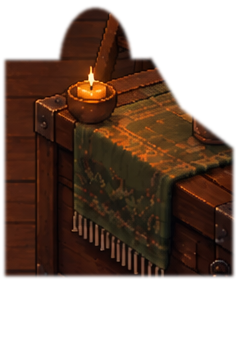
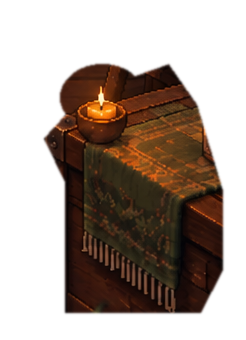
Tighten the candle chest's cutout to just the object itself
The first pass at giving the candle chest its own depth layer traced
too loose a polygon: the left edge was placed at the crop's own
boundary rather than the chest's actual front-left corner, carrying a
wide strip of plain floor and wall paneling along with it. Composited
above a seated companion, that showed up as a disconnected rectangular
slab floating in front of them instead of a clean object silhouette.

Retraced the outline against a magnified reference grid to find the
chest's real edges (front-left corner post, cloth's back and right
edges, fringe line) and rebuilt the cutout tightly around just the
chest, cloth and candle.

diff --git a/game/style.css b/game/style.css
@@ -9,7 +9,7 @@ body{position:fixed;inset:0;overscroll-behavior:none}button,input{font:inherit}b
    which the single flat background can't do on its own. This is a cutout
    of just the chest+cloth+candle, pinned over its own spot in that same
    background, sitting above near companions so they read as behind it. */
-.room-crate{position:absolute;left:1218.75px;top:438.75px;width:221.25px;height:337.5px;z-index:5;pointer-events:none;image-rendering:pixelated}
+.room-crate{position:absolute;left:1209.375px;top:420px;width:230.625px;height:318.75px;z-index:5;pointer-events:none;image-rendering:pixelated}
 .shade{background:linear-gradient(#160f0c99,transparent 22%,transparent 58%,#180f10e8 94%);box-shadow:inset 0 0 160px 40px #180e10b0}#atmosphere{z-index:5}header{position:absolute;inset:30px 48px auto;display:flex;align-items:center;justify-content:space-between;z-index:9}.brand{display:flex;align-items:center;gap:15px;text-shadow:0 3px 0 #2b170e}.brand-mark{font-size:51px;color:#efbc78}.brand h1{font-size:38px;font-weight:normal;letter-spacing:-1px;margin:0;line-height:1}.brand h1 span{font-size:18px;vertical-align:top;padding-left:4px;color:#dfb574}.brand p{font:12px/2 'Courier New',monospace;letter-spacing:2px;margin:4px 0 0;color:#d3b78e;text-shadow:0 1px 3px #140e0dcc}.header-right{display:flex;align-items:center;gap:14px}.session-label{font:10px 'Courier New';letter-spacing:1.1px;color:#c3b5a1;margin-right:12px}.session-label i,.turn-label i{display:inline-block;width:6px;height:6px;background:#b5c99a;margin-right:10px;box-shadow:0 0 9px #aec69a}.icon-button,.guide-button{border:1px solid #806447;background:#271b15dc;box-shadow:0 3px 0 #120d0a;border-radius:5px;height:43px}.icon-button{width:45px;font-size:23px}.guide-button{padding:0 16px;font-size:15px}.guide-button>span{color:#e3bd78;margin-right:8px}kbd{font:10px 'Courier New';border:1px solid #a4865966;border-radius:3px;padding:3px 5px;color:#b59e7c;margin-left:16px}.session-info{position:absolute;top:123px;left:49px;font:12px 'Courier New';letter-spacing:1px;color:#dcc6a6;text-shadow:0 1px 3px #140e0dcc}.session-info .dot{margin:0 12px;color:#8a765f}.companion{position:absolute;z-index:2;width:210px;height:340px;text-align:center}.sprite{height:280px;width:210px;image-rendering:pixelated;filter:drop-shadow(0 8px 2px #110b09b8);animation:breathe 5s ease-in-out infinite;transform-origin:bottom center}.nameplate{position:absolute;top:232px;left:9px;width:192px;padding:10px 10px 8px;background:#241e1bec;border:1px solid #ac825479;box-shadow:0 4px 0 #170f0da3;z-index:6;border-radius:4px}.nameplate strong{font: bold 13px 'Courier New';letter-spacing:2px}.persona{display:block;font:8px 'Courier New';letter-spacing:2px;color:#a99880;margin-top:3px}.bank{margin-top:7px;font:13px 'Courier New';color:#e9c683}.chip-symbol{color:#dfb577;font-size:21px}.bank .chip-symbol{font-size:13px}.status{margin-left:9px;color:#bcba9b;font-size:10px}.dealer-token{position:absolute;top:14px;left:-17px;background:#eee2bd;color:#523d2e;box-shadow:0 2px #705846;width:24px;height:24px;border:2px solid #b5a282;border-radius:50%;font:bold 11px/21px 'Courier New';display:none}.companion.active .nameplate{border-color:#e8c681;box-shadow:0 0 0 3px #e8c68125,0 4px #170f0d}.companion.active .status{color:#ffe3a0}.companion.folded .sprite{filter:brightness(.6) saturate(.5);animation:none}.speech{position:absolute;bottom:337px;left:-12px;width:234px;font:italic 14px Georgia;color:#e7d5b8;text-shadow:0 2px 4px #130e0c;opacity:0;transition:opacity .4s;white-space:nowrap}.speech.show{opacity:1}.opponent-cards{position:absolute;z-index:7;top:321px;left:71px;display:flex;gap:4px;transform:rotate(-4deg)}.companion .card{width:34px;height:45px;border-width:2px;border-radius:4px}.companion .card .corner{font-size:9px;top:2px;left:3px;line-height:.85}.companion .card .center-suit{font-size:16px}.companion .card .corner.bottom{right:3px;bottom:2px;top:auto;left:auto}.companion .card.back span{font-size:16px}.companion.folded .opponent-cards{opacity:.22;transform:rotate(-14deg) translateY(8px)}.companion.away .sprite{filter:brightness(.7) saturate(.55) grayscale(.3)}.companion.away .status{color:#e0a15c}
 .table-shadow{position:absolute;left:230px;top:404px;width:980px;height:360px;background:#160c0dcc;filter:blur(14px);border-radius:50%;z-index:1}.table-outer{position:absolute;left:241px;top:378px;width:958px;height:353px;background:#211412;z-index:3;clip-path:polygon(15% 0,85% 0,85% 3%,92% 3%,92% 8%,96% 8%,96% 17%,99% 17%,99% 30%,100% 30%,100% 68%,99% 68%,99% 81%,96% 81%,96% 90%,92% 90%,92% 96%,85% 96%,85% 100%,15% 100%,15% 96%,8% 96%,8% 90%,4% 90%,4% 81%,1% 81%,1% 68%,0 68%,0 30%,1% 30%,1% 17%,4% 17%,4% 8%,8% 8%,8% 3%,15% 3%)}.table-wood{position:absolute;inset:5px 5px 18px;background:repeating-linear-gradient(0deg,#765031 0 3px,#795433 3px 6px,#69442c 6px 7px);border-radius:160px;box-shadow:inset 0 3px #bf8e58,inset 0 -8px #432b20;padding:19px 21px}.table-felt{position:relative;width:100%;height:100%;border-radius:140px;background:radial-gradient(ellipse at 50% 15%,#446953,#284a3b 75%);border:4px solid #322d21;box-shadow:inset 0 8px 12px #172f2790,inset 0 -2px #78947370;overflow:hidden}.table-felt:after{content:'';position:absolute;inset:0;opacity:.16;pointer-events:none;background:repeating-linear-gradient(0deg,transparent 0 2px,#a8bd8b 2px 3px,transparent 3px 5px),repeating-linear-gradient(90deg,transparent 0 2px,#182d26 2px 3px,transparent 3px 5px)}.felt-stitch{position:absolute;inset:13px 18px;border:1px dashed #abbb8773;border-radius:140px}.felt-flower{position:absolute;top:47%;color:#94ac7e57;font-size:25px}.f1{left:54px}.f2{right:54px}.table-inscription{text-align:center;position:absolute;bottom:30px;width:100%;font:12px 'Courier New';letter-spacing:6px;color:#92ac8170}.table-inscription small{font:italic 13px Georgia;letter-spacing:1px}.street-ribbon{position:absolute;top:456px;left:590px;width:260px;text-align:center;z-index:7;font:10px 'Courier New';letter-spacing:3px;color:#d6d3af}.pot-area{position:absolute;z-index:7;left:577px;top:489px;width:286px;text-align:center;pointer-events:none}.pot-caption{display:none}.pot-area>div{display:inline-block;vertical-align:middle}.pot-area strong{font:25px 'Courier New';color:#fff1c6}.pot-area .chip-symbol{font-size:22px}.chip-pile{margin-left:15px;position:relative;height:26px;width:55px}.chip{position:absolute;width:23px;height:8px;border-radius:50%;background:#cb9470;border:2px dashed #f2d6a4;box-shadow:0 2px 0 #6c4435}.chip.green{background:#819a74;box-shadow:0 2px #3d5646}.chip.purple{background:#a395b1;box-shadow:0 2px #564264}.board{display:flex;gap:12px;position:absolute;z-index:7;top:542px;left:497px}.card{position:relative;flex-shrink:0;width:80px;height:111px;background:#f4eacf;border:3px solid #ead8ad;border-radius:7px;box-shadow:0 4px 0 #b6a47e,0 8px 9px #16241e88;color:#2a4440;user-select:none;transition:transform .2s,box-shadow .2s}.card .corner{position:absolute;top:5px;left:7px;font:bold 20px Georgia;line-height:.95;text-align:center}.card .corner span{display:block;font-size:.8em;margin-top:2px}.card .corner.bottom{inset:auto 6px 5px auto;transform:rotate(180deg)}.card .center-suit{position:absolute;inset:0;display:flex;align-items:center;justify-content:center;font-size:43px}.card.red{color:#b25345}.card.best{box-shadow:0 4px #bd9149,0 0 0 3px #eccb80,0 0 20px #f6d58738}.card.back{background:repeating-linear-gradient(45deg,#687973 0 3px,#72857c 3px 5px);border:3px solid #e9d5ac;display:flex;align-items:center;justify-content:center}.card.back:before{content:'';position:absolute;inset:5px;border:1px solid #d5cb9e}.card.back span{color:#eddfb5;font-size:33px;text-shadow:2px 2px #374f48}.card.empty{background:#203c3160;border:1px dashed #8ba07861;box-shadow:none;color:#90a27e70;display:flex;align-items:center;justify-content:center;font-size:22px}.card.enter{animation:cardIn .55s cubic-bezier(.2,.8,.25,1.15) both}.deck{position:absolute;left:348px;top:546px;z-index:7;transform:rotate(-12deg)}.deck .card{width:62px;height:87px;box-shadow:2px 2px #baac8b,4px 4px #f0e0b9,6px 6px #9e8d6e,8px 8px #ecdeba,12px 12px 12px #10241d99}.teacup{position:absolute;left:1032px;top:579px;z-index:7}.tea{font-size:42px;filter:sepia(.5);transform:rotate(10deg)}.steam{position:absolute;top:-14px;left:13px;color:#e3d8c1aa;font-size:24px;animation:steam 3s infinite}.steam.s2{left:29px;animation-delay:-1.4s}.table-message{position:absolute;z-index:7;top:673px;left:370px;width:700px;text-align:center;color:#e5d3b0;font:italic 15px Georgia;text-shadow:0 2px #2f2318}.human-seat{position:absolute;left:618px;top:716px;z-index:8;width:204px}.hole-cards{display:flex;justify-content:center;gap:9px}.hole-cards .card{width:80px;height:111px;transform:rotate(-7deg) translateY(-22px)}.hole-cards .card:nth-child(2){transform:rotate(7deg) translateY(-22px)}.hole-cards .card:hover{transform:rotate(0) translateY(-34px)}.your-label{text-align:center;position:relative;top:-12px;font:11px 'Courier New';letter-spacing:1.4px;color:#e2caa4;text-shadow:0 1px 2px #140e0d99}.your-label .dealer-token{left:20px;top:-7px}.tiny-star{color:#bc9f72;margin-left:8px}.wallet{position:absolute;left:324px;top:737px;z-index:8}.eyebrow{font:11px 'Courier New';letter-spacing:1.4px;color:#c2ad8d;text-shadow:0 1px 2px #140e0d99}.wallet>div{display:flex;gap:10px;align-items:center;margin:7px 0}.wallet strong{font:29px 'Courier New';color:#f5dfb7}.wallet small{font:12px Georgia;color:#c2af90}.wallet>span:last-child{font:11px Georgia;color:#ab987e}.hand-peek{position:absolute;left:899px;top:731px;z-index:8;text-align:left;padding:12px 18px;border-left:1px solid #b49d6955}.hand-peek:before{content:'';position:absolute;inset:-14px}.hand-peek strong{display:block;font-size:21px;font-weight:normal;margin:5px 0 7px;color:#f3deb9}.hand-peek>span:last-child{font:11px Georgia;color:#bcad92}.hand-peek b{margin-left:8px;color:#deb87c}.action-bar{position:absolute;z-index:9;left:48px;right:48px;bottom:41px;display:flex;align-items:center;justify-content:space-between;border-top:1px solid #8e73583a;padding-top:16px;pointer-events:none}.action-bar>*{pointer-events:auto}.turn-label{padding-left:1px;font:10px 'Courier New';letter-spacing:1.5px}.turn-label small{display:block;font:12px Georgia;letter-spacing:0;color:#a89781;margin-top:7px}.turn-label i{width:5px;height:5px}.action-buttons{display:flex;gap:12px;align-items:center;height:47px}.action-buttons button,.primary{border:1px solid #c9aa78;border-radius:4px;background:#382c23;color:#eee0c6;padding:13px 25px;font:14px Georgia;box-shadow:0 4px #100d0a;min-width:115px}.action-buttons .primary,.primary{background:#ead1a0;color:#3c3326;border:1px solid #fae5b8;box-shadow:0 4px #9f8057}.primary span{margin-left:24px}.action-buttons button small{font:10px 'Courier New';opacity:.6;margin-left:14px}.action-buttons .raise-button{background:#657961;border-color:#9faa7d;box-shadow:0 4px #344b3b}.action-buttons .subtle-button{min-width:80px;color:#c6b69b;border-color:#67523e}.raise-controls{position:absolute;right:0;bottom:63px;padding:17px 20px;background:#292119;border:1px solid #8c7453;box-shadow:0 7px 25px #0008;border-radius:6px;width:370px}.raise-controls label{display:flex;align-items:center;justify-content:space-between;font:12px Georgia}.raise-controls input[type=range]{width:100%;margin:18px 0 13px;accent-color:#e3c390}.raise-controls input[type=number]{width:86px;background:#191610;border:1px solid #9b8058;border-radius:3px;color:#f2e0b7;padding:6px}.raise-presets{display:flex;gap:8px}.raise-presets button{font:10px 'Courier New';min-width:0;padding:7px 9px;box-shadow:none;flex:1}.hidden{display:none!important}footer{position:absolute;z-index:9;left:48px;right:48px;bottom:12px;display:flex;justify-content:space-between;align-items:center;color:#a4917a;font:12px Georgia}footer button{padding:0;font-size:12px;color:#c3ae94}footer>span{font-style:italic;letter-spacing:.3px}.modal-backdrop{position:absolute;inset:0;background:#17130fa1;z-index:20;animation:fadeIn .2s}.journal{position:absolute;z-index:21;right:24px;top:24px;bottom:24px;width:488px;background:#eee0bf;color:#473e30;border:4px solid #b69a70;border-radius:6px;box-shadow:-16px 20px 70px #070808aa;display:flex;flex-direction:column;animation:journalIn .35s cubic-bezier(.2,.8,.2,1)}.journal-head{display:flex;justify-content:space-between;padding:25px 23px 19px;align-items:center}.journal .eyebrow{color:#8d7656;font-size:8px;letter-spacing:1.5px}.journal h2{font-size:28px;font-weight:normal;margin:7px 0 0}.close{width:30px;height:30px;font:28px/30px Georgia;color:inherit;border:1px solid #9e85575c;border-radius:3px}.journal-tabs{display:flex;padding:0 23px;border-bottom:1px solid #b29c736b;gap:21px}.journal-tabs button{font:12px Georgia;padding:10px 0 13px;color:#897a60;border-bottom:2px solid transparent}.journal-tabs .selected{color:#43543c;border-color:#607153}.journal-body{overflow-y:auto;padding:19px 23px;flex:1;scrollbar-width:thin;scrollbar-color:#b6a17a #e4d5b4}.journal-summary{padding:14px;background:#e1d2af;border:1px solid #c5b28c;border-radius:4px;margin-bottom:16px}.journal-summary .eyebrow{font-size:8px}.journal-summary h3{font-size:22px;margin:5px 0 12px;font-weight:normal}.visible-cards{display:flex;gap:6px;align-items:center}.visible-cards .card{width:38px;height:51px;box-shadow:0 2px #a08e6c;border-width:2px;border-radius:3px}.visible-cards .card .corner{font-size:10px;left:3px;top:2px}.visible-cards .card .center-suit{font-size:18px}.visible-cards .card .bottom{display:none}.visible-cards .card.best{box-shadow:0 2px #a08348,0 0 0 2px #c39640}.visible-divider{width:1px;background:#c0aa80;height:30px;margin:0 4px}.summary-note{font:10px/1.5 Georgia;color:#77674c;margin:12px 0 0}.guide-row{display:grid;grid-template-columns:22px 1fr 69px;gap:8px;align-items:center;padding:11px 10px 13px;width:100%;text-align:left;border-bottom:1px solid #c5b38975;position:relative}.guide-row .rank{color:#9e8b64;font:11px 'Courier New'}.guide-row strong{display:block;font:15px Georgia;font-weight:normal}.guide-row small{display:block;font:9px Georgia;color:#8c7e63;margin-top:3px}.guide-row .chance{font:13px 'Courier New';text-align:right}.guide-row.current{background:#75836322;box-shadow:inset 3px 0 #72815c}.guide-row.unavailable{opacity:.43}.guide-row .bar{position:absolute;bottom:4px;height:2px;background:#879674;left:40px;max-width:318px}.row-cards{display:flex;gap:3px;margin-top:6px;font:bold 11px Georgia}.row-cards i{font-style:normal;background:#f7edcf;border:1px solid #c6b18c;border-radius:2px;min-width:23px;text-align:center;padding:4px 2px}.row-cards i.red{color:#a34438}.journal-note{font:11px/1.6 Georgia;color:#877655;border-top:1px solid #bda98180;padding-top:12px}.journal-foot{padding:14px 23px;background:#e0ceaa;color:#84704e;font:italic 11px Georgia}.journal-foot kbd{float:right;color:#8d7953;font-style:normal;font-size:8px}.guide-detail{background:#ddcea9;padding:14px;margin:15px 0 0;border:1px solid #bfaa7e;border-radius:3px;font:12px/1.6 Georgia}.guide-detail b{font-size:14px}.out-cards{display:flex;flex-wrap:wrap;gap:5px;margin-top:10px}.out-card{font:bold 12px Georgia;background:#f5e9c8;padding:4px 6px;border:1px solid #bda474;border-radius:3px}.out-card.red{color:#a44d41}.small-modal{position:absolute;z-index:22;left:50%;top:50%;transform:translate(-50%,-50%);width:490px;background:#eaddbd;color:#4c4030;border:4px solid #a88d64;border-radius:6px;padding:32px;box-shadow:0 20px 90px #0009}.small-modal>.close{position:absolute;right:18px;top:18px}.small-modal h2{font-size:29px;font-weight:normal;margin:13px 0}.small-modal .eyebrow{font-size:8px;color:#8a7250}.small-modal p,.small-modal li{font:14px/1.7 Georgia;color:#75634b}.small-modal label{display:block;font:13px Georgia;margin:22px 0}.small-modal input[type=range]{width:100%;display:block;margin-top:12px;accent-color:#6d7f60}.settings-row{display:flex;gap:12px;align-items:center}.settings-row button{border:1px solid #ad9265;border-radius:3px;padding:10px 14px;font-size:12px;color:#5f5038}.small-modal ol{padding-left:20px}.small-modal li{margin:10px 0}.small-modal .rules-shortcuts{font:10px Georgia;margin:20px 0 25px}.small-modal kbd{color:#74603e;margin-left:8px}.small-modal .check-label{font-size:12px}.check-label input{accent-color:#657751;vertical-align:middle;margin-right:8px}.particle{position:absolute;z-index:19;pointer-events:none;animation:particle 1.25s cubic-bezier(.2,.8,.2,1) forwards;color:#f0c67c;font-size:16px}.burst{animation:potPop .45s}.winner-banner{color:#ffe3a6!important;font-size:18px!important}.thinking .sprite{animation:think .7s ease-in-out infinite alternate}.gentle *{animation-duration:.01ms!important;animation-iteration-count:1!important;transition-duration:.01ms!important}.gentle #atmosphere{display:none}@keyframes breathe{50%{transform:translateY(-3px) scaleY(1.008)}}@keyframes think{to{transform:rotate(1.5deg) translateY(-3px)}}@keyframes steam{0%{transform:translateY(0);opacity:0}30%{opacity:.4}100%{transform:translateY(-26px);opacity:0}}@keyframes cardIn{from{opacity:0;transform:translate(-160px,-60px) rotate(-25deg) scale(.5)}to{opacity:1}}@keyframes journalIn{from{transform:translateX(40px);opacity:0}to{transform:translateX(0);opacity:1}}@keyframes fadeIn{from{opacity:0}to{opacity:1}}@keyframes potPop{50%{transform:translateY(-7px) scale(1.14)}}@keyframes particle{0%{opacity:1;transform:translate(0,0) rotate(0)}100%{opacity:0;transform:translate(var(--dx),var(--dy)) rotate(150deg)}}
 /* Let the table occlude character bodies while nameplates stay above the felt. */

diff --git a/game/index.html b/game/index.html
@@ -1,5 +1,5 @@
 <!doctype html>
-<html lang="en"><head><meta charset="utf-8"><meta name="viewport" content="width=device-width,initial-scale=1,maximum-scale=1,user-scalable=no,viewport-fit=cover"><meta name="theme-color" content="#140e0d"><meta name="mobile-web-app-capable" content="yes"><meta name="apple-mobile-web-app-capable" content="yes"><meta name="apple-mobile-web-app-status-bar-style" content="black-translucent"><meta name="apple-mobile-web-app-title" content="Hearthside"><title>Hearthside · Woodland Poker Club</title><link rel="manifest" href="manifest.webmanifest"><link rel="icon" type="image/png" href="assets/hearthside-icon.png"><link rel="apple-touch-icon" href="assets/apple-touch-icon.png"><link rel="preload" as="image" href="assets/cat-free-room.png"><link rel="stylesheet" href="style.css?v=1.6.14"><link rel="stylesheet" href="refinements.css?v=1.6.14"><link rel="stylesheet" href="table-life.css?v=1.6.14"><link rel="stylesheet" href="ambience.css?v=1.6.14"><link rel="stylesheet" href="display.css?v=1.6.14"><link rel="stylesheet" href="seating.css?v=1.6.14"><link rel="stylesheet" href="compact.css?v=1.6.14"></head>
+<html lang="en"><head><meta charset="utf-8"><meta name="viewport" content="width=device-width,initial-scale=1,maximum-scale=1,user-scalable=no,viewport-fit=cover"><meta name="theme-color" content="#140e0d"><meta name="mobile-web-app-capable" content="yes"><meta name="apple-mobile-web-app-capable" content="yes"><meta name="apple-mobile-web-app-status-bar-style" content="black-translucent"><meta name="apple-mobile-web-app-title" content="Hearthside"><title>Hearthside · Woodland Poker Club</title><link rel="manifest" href="manifest.webmanifest"><link rel="icon" type="image/png" href="assets/hearthside-icon.png"><link rel="apple-touch-icon" href="assets/apple-touch-icon.png"><link rel="preload" as="image" href="assets/cat-free-room.png"><link rel="stylesheet" href="style.css?v=1.6.15"><link rel="stylesheet" href="refinements.css?v=1.6.15"><link rel="stylesheet" href="table-life.css?v=1.6.15"><link rel="stylesheet" href="ambience.css?v=1.6.15"><link rel="stylesheet" href="display.css?v=1.6.15"><link rel="stylesheet" href="seating.css?v=1.6.15"><link rel="stylesheet" href="compact.css?v=1.6.15"></head>
 <body>
 <main id="stage">
   <div class="room"></div><div class="orb-effect" aria-hidden="true"></div><img class="room-crate" src="assets/room-crate-front.png" alt="" aria-hidden="true"><div class="shade"></div><canvas id="atmosphere" width="1440" height="900" aria-hidden="true"></canvas><div id="windowCat" class="window-cat" data-action="sleeping" role="img" aria-label="A ginger cat sleeping on the window cushion"></div>
@@ -25,7 +25,7 @@
   <div id="confirmReset" class="small-modal hidden" role="dialog" aria-modal="true" aria-labelledby="resetTitle"><span class="eyebrow">TABLE SETUP</span><h2 id="resetTitle">Choose your table</h2><p>A new table resets chips and the win/loss record. Your current hand stays saved until you start.</p><label for="tableSize">Players<select id="tableSize"><option value="2">2 players · You + 1</option><option value="3">3 players · You + 2</option><option value="4">4 players · You + 3</option><option value="5">5 players · You + 4</option><option value="6">6 players · You + 5</option><option value="7">7 players · You + 6</option></select></label><div id="rosterChoices"></div><p id="rosterStatus"></p><label for="tableDifficulty">Companions<select id="tableDifficulty"><option value="gentle">Gentle · they make more mistakes</option><option value="standard">Standard</option><option value="sharp">Sharp · they read their hands closely</option></select></label><label for="tableKind">The evening<select id="tableKind"></select></label><p id="tableKindNote" class="pace-note"></p><div class="settings-row"><button data-close="confirmReset">Keep playing</button><button id="resetConfirm" class="primary">Fresh table</button></div></div>
 <div id="recap" class="small-modal hidden" role="dialog" aria-modal="true" aria-labelledby="recapTitle"><button class="close" data-close="recap" aria-label="Close hand recap">×</button><span class="eyebrow">THE CARDS TELL THE STORY</span><div class="recap-toolbar"><h2 id="recapTitle">Hand review</h2><button id="recapNextHand" class="primary">Deal next hand ↗</button></div><div id="recapContent" tabindex="0" aria-label="Hand results"></div><div class="recap-footer"><button data-close="recap">Back to the table</button></div></div>
   <div id="eveningClose" class="small-modal hidden" role="dialog" aria-modal="true" aria-labelledby="eveningTitle"><span class="eyebrow">LAST HAND OF THE NIGHT</span><h2 id="eveningTitle">The evening winds down</h2><p>The fire has burned low and the rain has eased. <span id="eveningHandsPlayed">0</span> hands played.</p><div class="evening-figures"><div><span class="eyebrow">YOUR WINNINGS</span><strong><span class="chip-symbol">◉</span> <span id="eveningWinnings">0</span></strong></div><div><span class="eyebrow">THE KITTY</span><strong><span class="chip-symbol">◉</span> <span id="eveningKitty">0</span></strong></div><div class="evening-total"><span class="eyebrow">INTO THE FUND</span><strong><span class="chip-symbol">◉</span> <span id="eveningTakeHome">0</span></strong></div></div><p id="eveningNote" class="pace-note"></p><p id="eveningBest" class="evening-best hidden"></p><p class="pace-note">The club fund now holds <span class="chip-symbol">◉</span> <strong id="eveningFund">0</strong>.</p><div class="settings-row"><button id="eveningShelf">Visit the club fund</button><button id="newEveningButton" class="primary">Another evening ↗</button></div></div>
-  <div id="shelf" class="small-modal hidden" role="dialog" aria-modal="true" aria-labelledby="shelfTitle"><button class="close" data-close="shelf" aria-label="Close the club fund">×</button><span class="eyebrow">MAKING THE PLACE NICER</span><h2 id="shelfTitle">The club fund</h2><p class="pace-note">Whatever you win goes into the fund, and the fund goes into the room. Nothing here is ever locked behind it — it is all just warmth.</p><p class="shelf-total"><span class="eyebrow">IN THE FUND</span> <strong><span class="chip-symbol">◉</span> <span id="shelfFund">0</span></strong></p><div class="club-ledger" role="group" aria-label="The club so far"><div><span class="eyebrow">EVENINGS PLAYED</span><strong id="ledgerEvenings">0</strong></div><div><span class="eyebrow">BEST NIGHT</span><strong><span class="chip-symbol">◉</span> <span id="ledgerBest">0</span></strong></div><div><span class="eyebrow">IN THE ROOM</span><strong><span id="ledgerComforts">0</span> of <span id="ledgerComfortsTotal">6</span></strong></div></div><div id="shelfItems"></div><div class="settings-row"><button data-close="shelf" class="primary">Back to the table</button></div></div><div id="online" class="small-modal hidden" role="dialog" aria-modal="true" aria-labelledby="onlineTitle"><button class="close" data-close="online" aria-label="Close">×</button><span class="eyebrow">A PRIVATE TABLE FOR FRIENDS</span><h2 id="onlineTitle">Play with friends</h2><div id="onlineBody"></div></div><div id="gameOver" class="small-modal hidden" role="dialog" aria-modal="true" aria-labelledby="gameOverTitle"><button class="close" data-close="gameOver" aria-label="Close">×</button><span class="eyebrow">GAME COMPLETE</span><h2 id="gameOverTitle">Standings</h2><div id="gameOverBody"></div><div class="settings-row"><button data-close="gameOver" class="primary">Continue</button></div></div></main><div id="rotateHint" class="rotate-hint hidden"><div><span aria-hidden="true">↻</span><p>Turn your phone upright</p><small>Hearthside deals its table down the screen.<br>Tap to carry on in landscape anyway.</small></div></div><div id="windowTools" class="hidden" aria-label="Borderless window controls"><button data-window="move" title="Move window: use arrows or pointer, Enter to finish">Move window</button><button data-window="resize" title="Resize: use arrows or pointer, Enter to finish">Resize</button><button data-window="minimize" aria-label="Minimize window">−</button><button id="windowQuit" aria-label="Save and close game">×</button></div><script src="poker.js?v=1.6.14"></script><script src="session.js?v=1.6.14"></script><script src="audio.js?v=1.6.14"></script><script src="companions.js?v=1.6.14"></script><script src="presentation.js?v=1.6.14"></script><script src="cat.js?v=1.6.14"></script><script src="ambience.js?v=1.6.14"></script><script src="computation.js?v=1.6.14"></script><script src="seating.js?v=1.6.14"></script><script src="roster.js?v=1.6.14"></script><script src="club.js?v=1.6.14"></script><script src="tables.js?v=1.6.14"></script><script src="code.js?v=1.6.14"></script><script src="multiplayer.js?v=1.6.14"></script><script src="app.js?v=1.6.14"></script><script src="display.js?v=1.6.14"></script>
+  <div id="shelf" class="small-modal hidden" role="dialog" aria-modal="true" aria-labelledby="shelfTitle"><button class="close" data-close="shelf" aria-label="Close the club fund">×</button><span class="eyebrow">MAKING THE PLACE NICER</span><h2 id="shelfTitle">The club fund</h2><p class="pace-note">Whatever you win goes into the fund, and the fund goes into the room. Nothing here is ever locked behind it — it is all just warmth.</p><p class="shelf-total"><span class="eyebrow">IN THE FUND</span> <strong><span class="chip-symbol">◉</span> <span id="shelfFund">0</span></strong></p><div class="club-ledger" role="group" aria-label="The club so far"><div><span class="eyebrow">EVENINGS PLAYED</span><strong id="ledgerEvenings">0</strong></div><div><span class="eyebrow">BEST NIGHT</span><strong><span class="chip-symbol">◉</span> <span id="ledgerBest">0</span></strong></div><div><span class="eyebrow">IN THE ROOM</span><strong><span id="ledgerComforts">0</span> of <span id="ledgerComfortsTotal">6</span></strong></div></div><div id="shelfItems"></div><div class="settings-row"><button data-close="shelf" class="primary">Back to the table</button></div></div><div id="online" class="small-modal hidden" role="dialog" aria-modal="true" aria-labelledby="onlineTitle"><button class="close" data-close="online" aria-label="Close">×</button><span class="eyebrow">A PRIVATE TABLE FOR FRIENDS</span><h2 id="onlineTitle">Play with friends</h2><div id="onlineBody"></div></div><div id="gameOver" class="small-modal hidden" role="dialog" aria-modal="true" aria-labelledby="gameOverTitle"><button class="close" data-close="gameOver" aria-label="Close">×</button><span class="eyebrow">GAME COMPLETE</span><h2 id="gameOverTitle">Standings</h2><div id="gameOverBody"></div><div class="settings-row"><button data-close="gameOver" class="primary">Continue</button></div></div></main><div id="rotateHint" class="rotate-hint hidden"><div><span aria-hidden="true">↻</span><p>Turn your phone upright</p><small>Hearthside deals its table down the screen.<br>Tap to carry on in landscape anyway.</small></div></div><div id="windowTools" class="hidden" aria-label="Borderless window controls"><button data-window="move" title="Move window: use arrows or pointer, Enter to finish">Move window</button><button data-window="resize" title="Resize: use arrows or pointer, Enter to finish">Resize</button><button data-window="minimize" aria-label="Minimize window">−</button><button id="windowQuit" aria-label="Save and close game">×</button></div><script src="poker.js?v=1.6.15"></script><script src="session.js?v=1.6.15"></script><script src="audio.js?v=1.6.15"></script><script src="companions.js?v=1.6.15"></script><script src="presentation.js?v=1.6.15"></script><script src="cat.js?v=1.6.15"></script><script src="ambience.js?v=1.6.15"></script><script src="computation.js?v=1.6.15"></script><script src="seating.js?v=1.6.15"></script><script src="roster.js?v=1.6.15"></script><script src="club.js?v=1.6.15"></script><script src="tables.js?v=1.6.15"></script><script src="code.js?v=1.6.15"></script><script src="multiplayer.js?v=1.6.15"></script><script src="app.js?v=1.6.15"></script><script src="display.js?v=1.6.15"></script>
 <script>
 /* Offline support for the web/home-screen version only. Skipped inside the
  * native Capacitor app (which already bundles everything) and on file:// in

diff --git a/game/sw.js b/game/sw.js
@@ -8,7 +8,7 @@
  * returning player drops the previous version's cached files.
  */
 'use strict';
-var CACHE = 'hearthside-v1.6.14';
+var CACHE = 'hearthside-v1.6.15';
 var ASSET = /\.(?:png|jpe?g|webp|gif|svg|ico|mp3|ogg|wav|woff2?)$/i;
 
 self.addEventListener('install', function (e) {

diff --git a/CHANGELOG.md b/CHANGELOG.md
@@ -1,5 +1,18 @@
 # Changelog
 
+## v1.6.15 — 2026-09-15
+
+A follow-up to v1.6.14's candle-chest fix.
+
+**Save compatibility:** unaffected.
+
+### Fixed
+
+- **The candle chest's cutout no longer carries a visible slab of
+  floor and wall with it.** The first pass at giving the chest its
+  own layer traced too loose an outline; it's now a tight, deliberate
+  crop of just the chest, cloth and candle themselves.
+
 ## v1.6.14 — 2026-09-15
 
 Another table polish fix, following up on v1.6.13.
